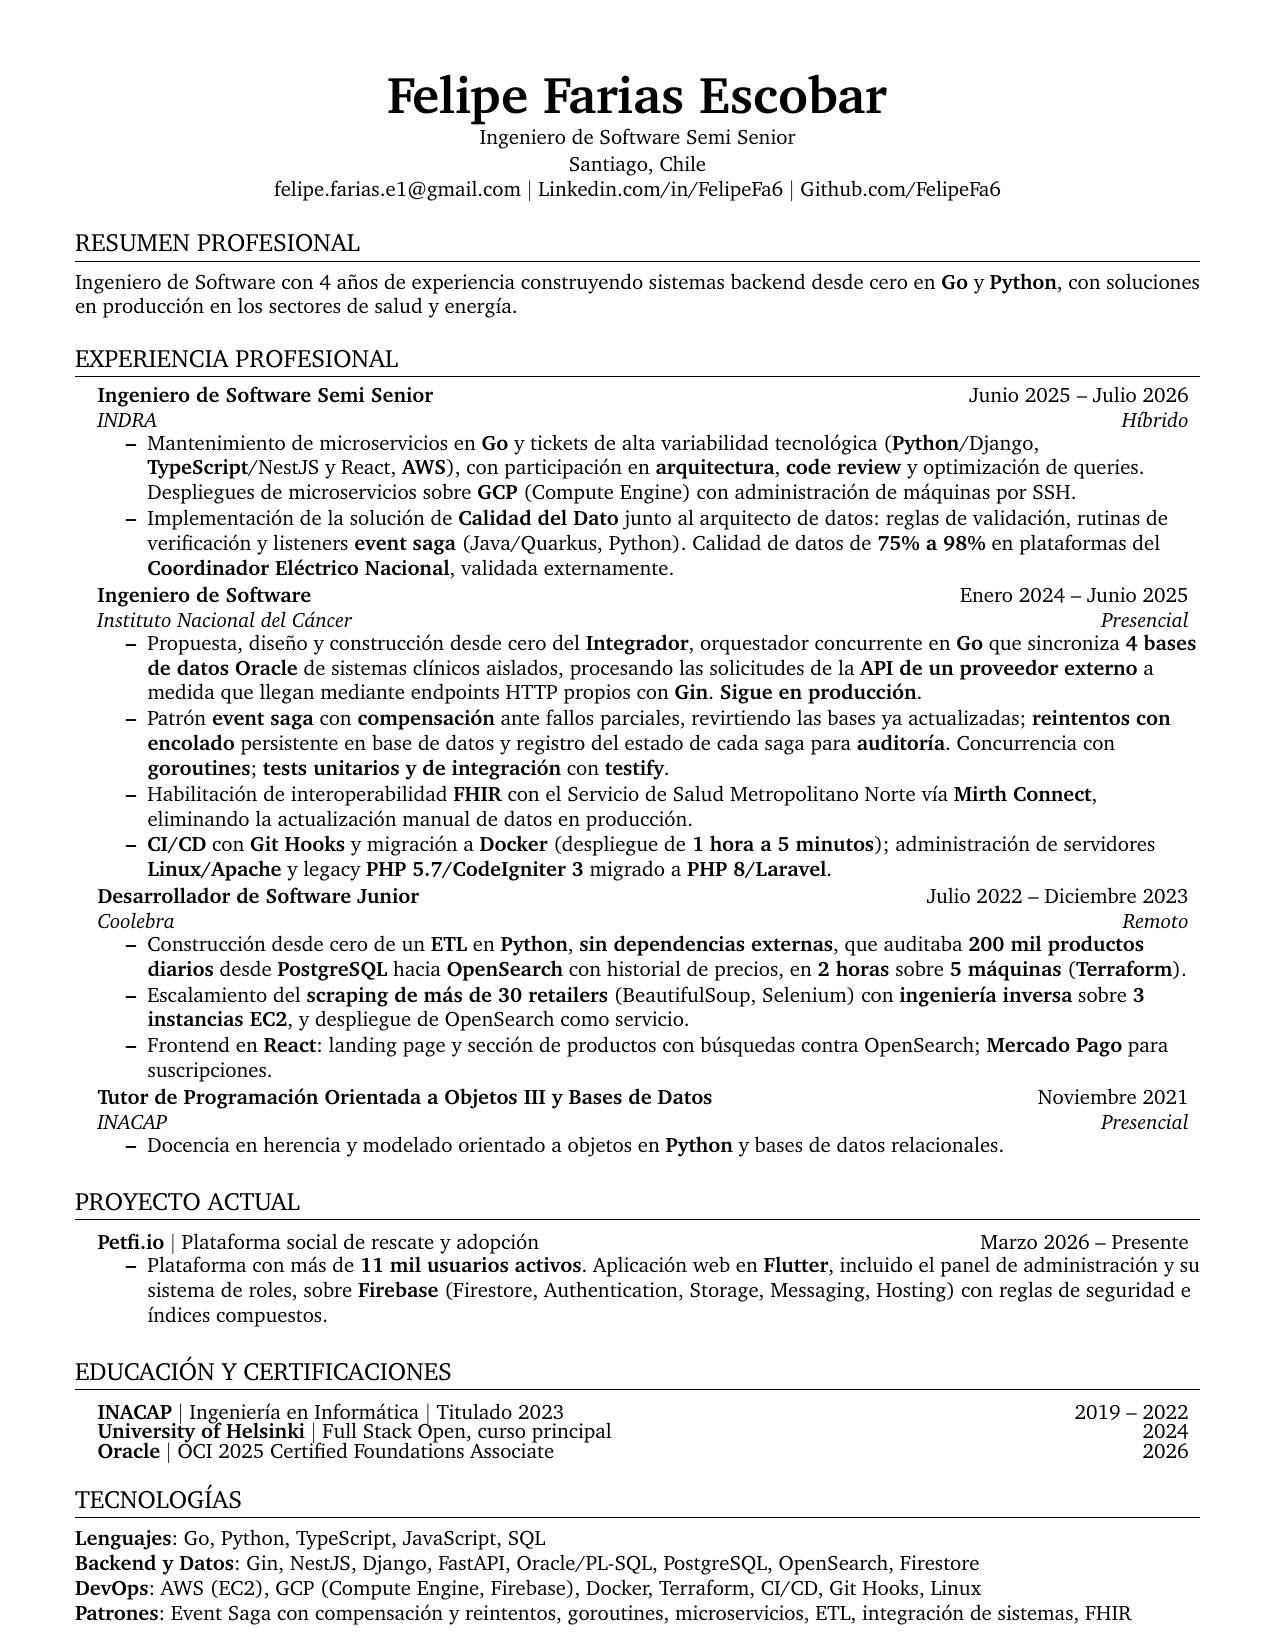
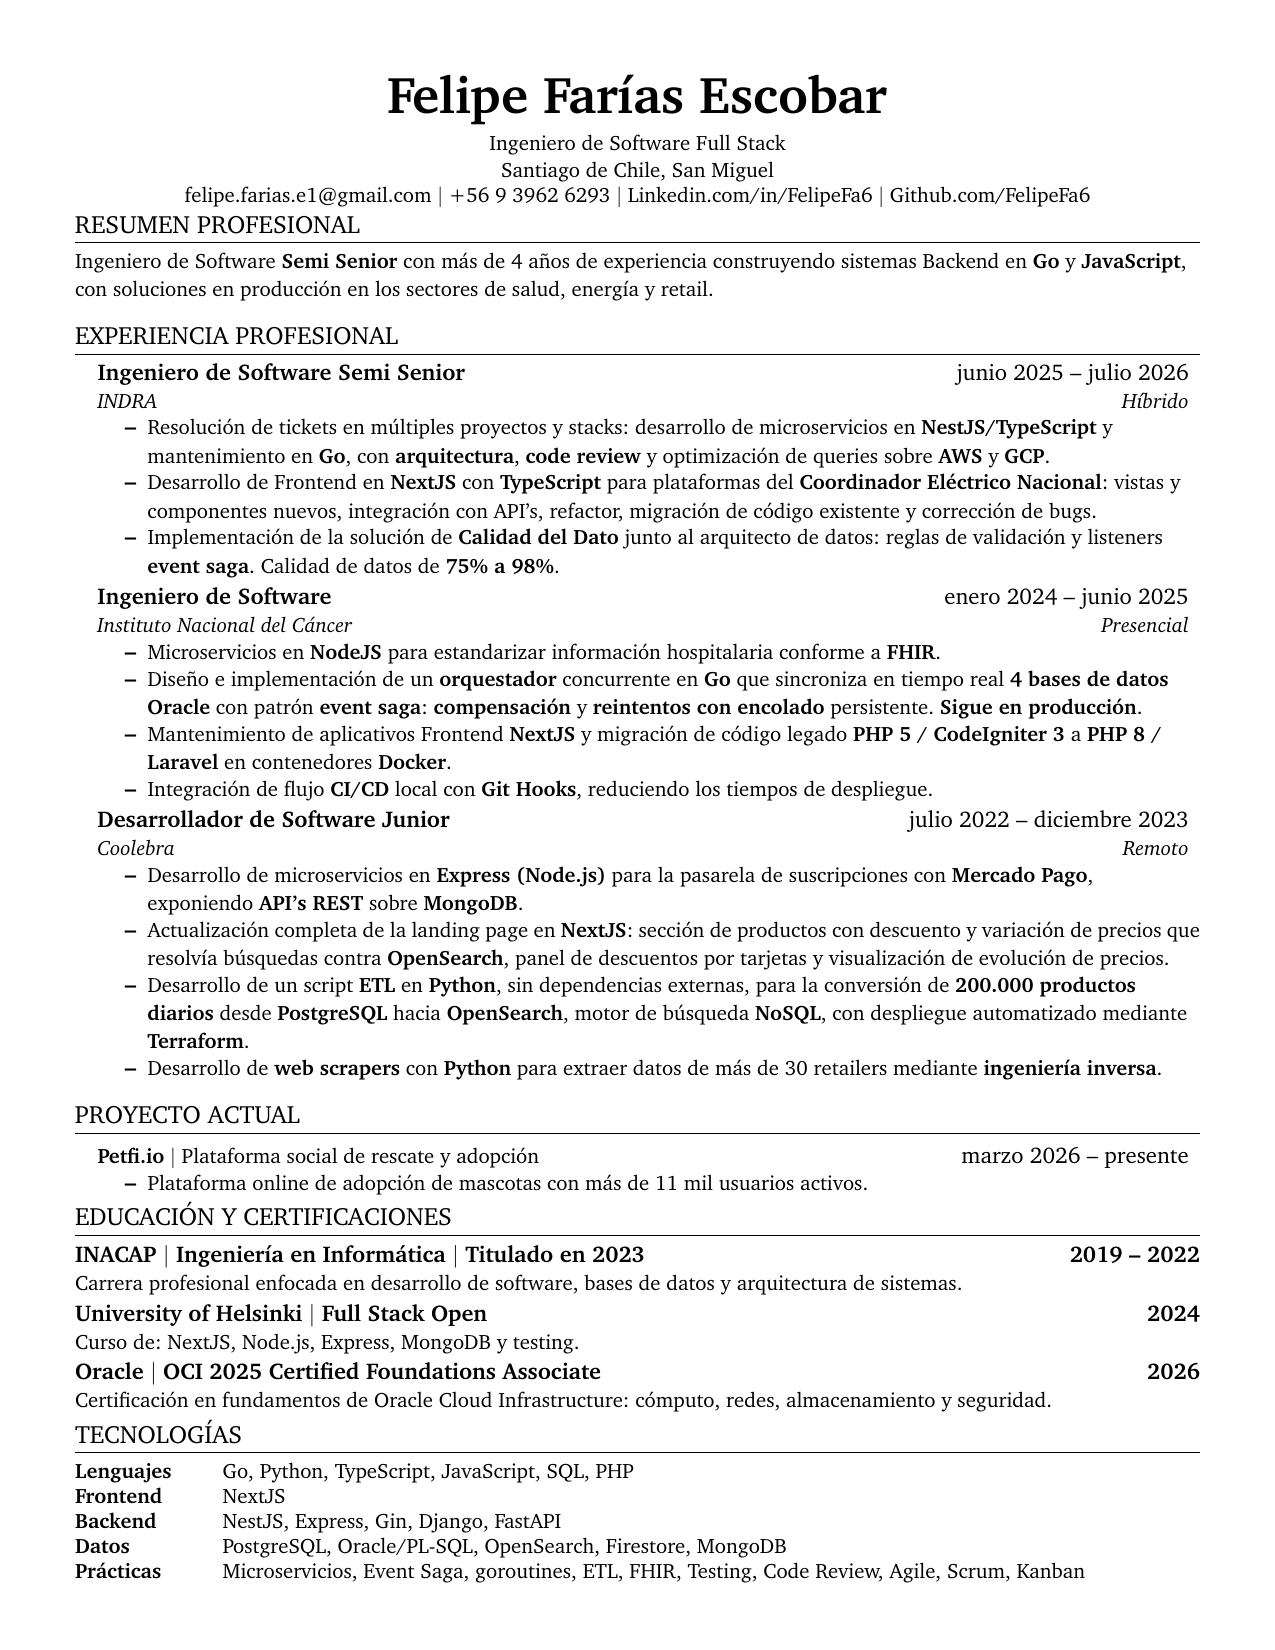
Update

Changed region(s): [[0.0612, 0.0618, 0.9482, 0.9891], [0.8565, 0.9582, 0.8871, 0.9891]]

diff --git a/README.md b/README.md
@@ -1,1 +1,1 @@
-![cv-page1](https://github.com/FelipeFa6/my-cv/blob/master/img/go_es-page-1.png?raw=true)
+![cv-page1](https://github.com/FelipeFa6/my-cv/blob/master/img/js_es-page-1.png?raw=true)
